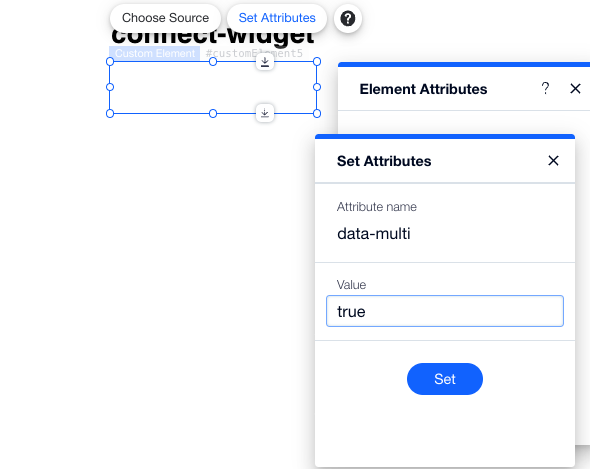
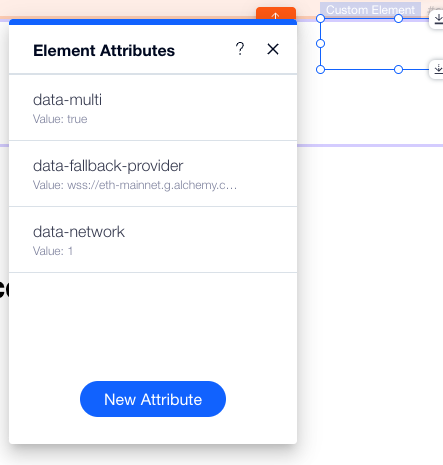
fix: connect-widget walletConnect config

diff --git a/connect-widget/wix/README.md b/connect-widget/wix/README.md
@@ -33,11 +33,9 @@ It should look like this: <br />
 
 5. (Optional) If you want the connect-widget to include WalletConnect and not just Metamask. On the custom element click "Set Attributes" => "Set Attributes". For Attribute Name enter in 
 ```
-data-multi
-```
-and for Value enter in 
-```
-true
+data-multi  :  true
+data-fallback-provider  :  {get an API key from Alchemy or Infura. Should start with "wss://"}
+data-network  :  {1 for Ethereum Mainnet or 5 for Goerli}
 ```
 then click "Set" <br />
 ![attributes](./images/custom-element-attribute.png) <br />

diff --git a/marketplace-widget/wix/README.md b/marketplace-widget/wix/README.md
@@ -51,7 +51,6 @@ $w.onReady(function () {
 <br />
 
 
-
 ## Optional Styling For A Dark Background Wix Page
 1. In the wix dashboard for the site (not the site editor). Click Settings => Custom Code => "+ Add Custom Code"
 2. Copy and paste the following code into the box:
